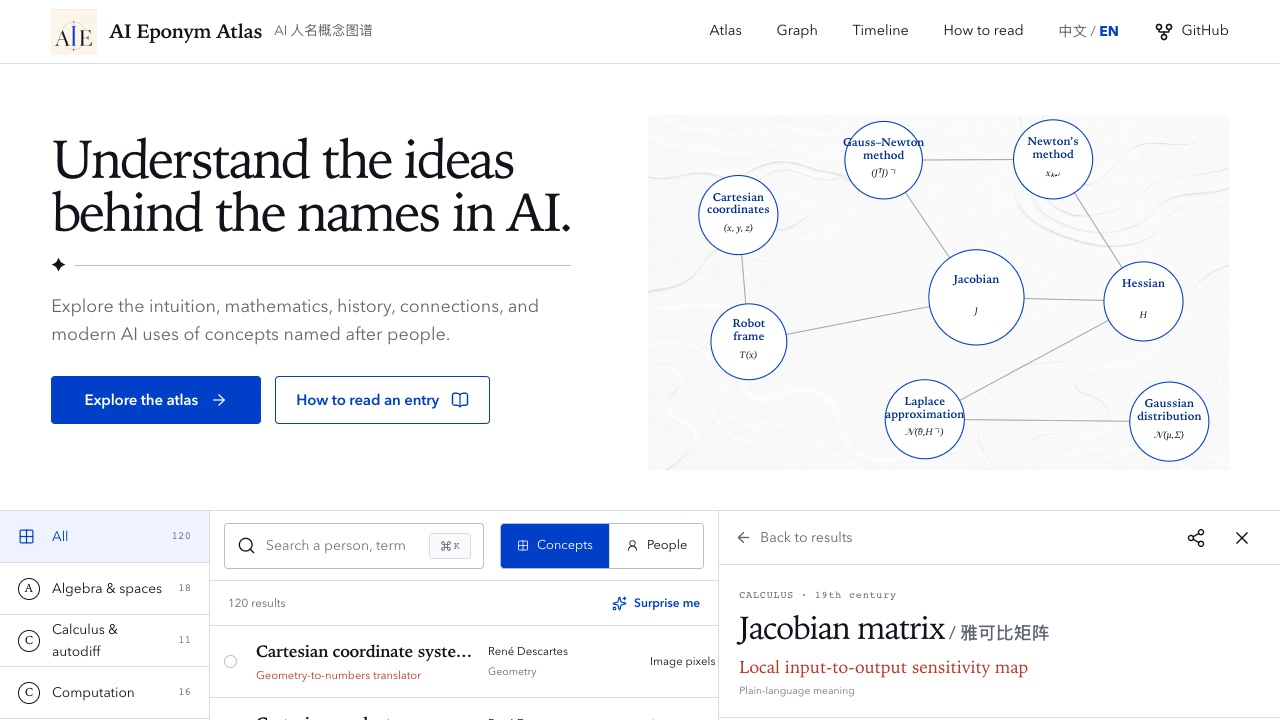
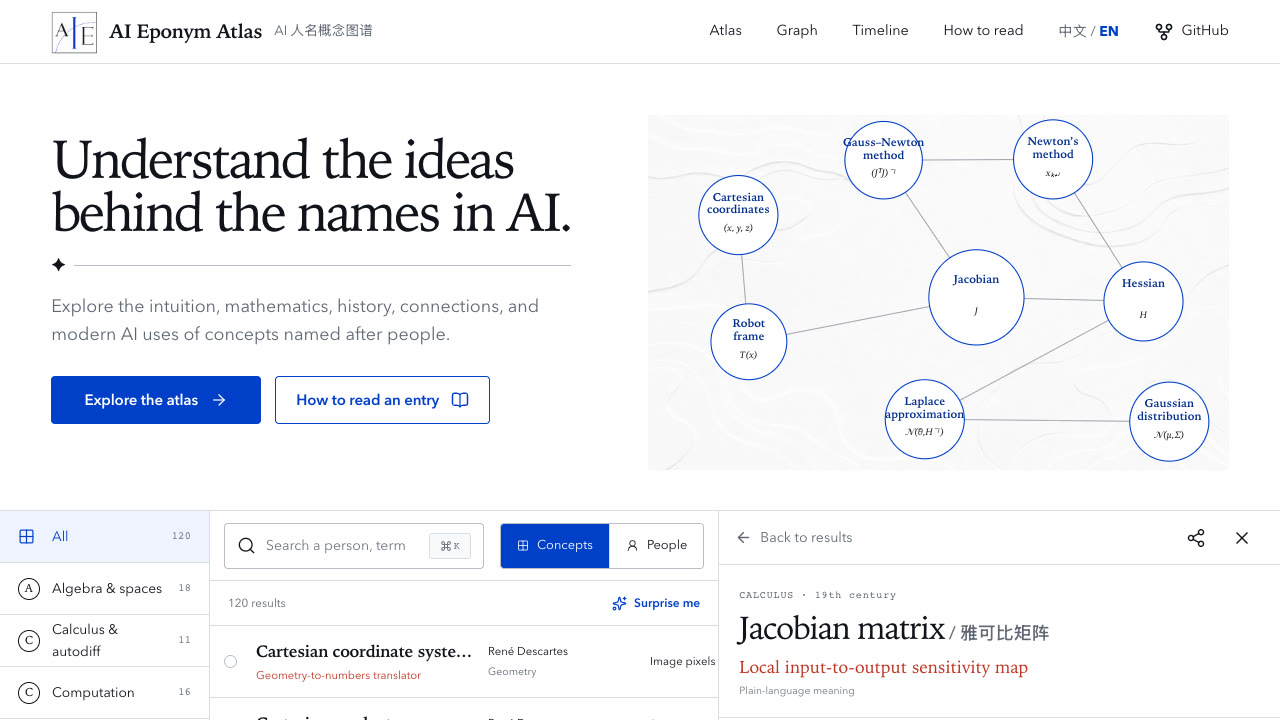
Adopt Option 1 Semantic Meridian identity

diff --git a/docs/GENERATED_ASSETS.md b/docs/GENERATED_ASSETS.md
@@ -88,32 +88,36 @@ be read as a relationship encoded by the atlas.
 | Field | Record |
 | --- | --- |
 | File | `public/og-card.jpg` |
+| Approved direction | Option 1 — **Semantic Meridian** |
+| Direction board | `docs/brand/semantic-meridian-option-1.jpg` |
 | Purpose | Open Graph and large Twitter/X link preview |
 | Generated | 2026-07-31 with ChatGPT built-in image generation |
-| Source output | 1731 × 909 PNG |
-| Production output | 1200 × 630 JPEG, approximately 182 KB |
+| Source output | 1717 × 916 PNG after applying the approved direction |
+| Production output | Center-cropped 1200 × 630 JPEG, approximately 121 KB |
 | Text verification | English title, Chinese title, tagline, and URL checked against repository copy |
 | Informational role | Decorative project identity only; it is not mathematical or historical evidence |
 
-The A–I–E mark at the upper left is also cropped into `brand-mark.png`,
+The approved mark uses black **A** and **E** letterforms, a tall cobalt **I**, an
+open diagonal meridian, and one vermilion diamond inside a fine square rule. It
+is cropped from the approved direction board into `brand-mark.png`,
 `icon-192.png`, `icon-512.png`, and `apple-touch-icon.png`. The blue **I** keeps
-all three initials legible at small sizes and avoids the previous A–E reading.
+all three initials legible at small sizes and avoids an A–E-only reading.
 
 ### Social-card production prompt
 
-> Use case: ads-marketing. Asset type: GitHub README cover and Open Graph social
-> card for an educational open-source project. Create a premium contemporary
-> editorial cover for AI Eponym Atlas, using a Swiss grid and scientific-atlas
-> visual language. Use warm ivory paper, subtle embossed topographic contours,
-> sparse mathematical arcs and nodes, near-black ink, vivid ultramarine, and one
-> tiny vermilion accent. Use an exact 1200:630 landscape composition with
-> generous margins. Place an original monogram at the upper left that clearly
-> includes **A**, **I**, and **E**, never only A and E. Render exactly once:
+> Use case: precise-object-edit. Image 1 is the current production social card
+> and establishes the exact copy and landscape framing. Image 2 is the approved
+> Option 1 “Semantic Meridian” identity board and is the authoritative visual and
+> logo reference. Rework Image 1 into a production-ready application of Option
+> 1: a boxed A–I–E monogram with a tall cobalt I, black A and E, one open diagonal
+> cobalt meridian, and one tiny vermilion diamond. Carry over the archival
+> index-tab paper layers, vertical cobalt meridian rule, target node, fine
+> cartographic lines, and quiet ivory paper topography. Keep it flat and
+> editorial, not a presentation board or physical mockup. Render exactly once:
 > “AI Eponym Atlas”, “AI 人名概念图谱”, “Understand the ideas behind
-> the names in AI.”, and “chaoyue0307.github.io/ai-eponym-atlas”. Keep the text
-> perfectly legible. No extra words, portraits, fake equations, generic AI
-> brains, circuit-board imagery, neon, mockup frame, 3D logo, watermark, or
-> decorative clutter.
+> the names in AI.”, and “chaoyue0307.github.io/ai-eponym-atlas”. Use no old
+> tagline, extra words, portraits, fake formulas, fake data, watermark, 3D logo,
+> circular orbit, Option 2 blue card, Option 3 dark split, or decorative clutter.
 
 ## Rejected UI concept studies
 
@@ -133,4 +137,4 @@ evaluated directly in React, CSS, semantic HTML, and SVG:
 - README images are captures of the working application.
 
 Generated imagery remains limited to non-informational editorial artwork: the
-paper underlay and the social cover documented above.
+paper underlay, approved identity board, and social cover documented above.

diff --git a/docs/DESIGN_SYSTEM.md b/docs/DESIGN_SYSTEM.md
@@ -56,6 +56,22 @@ style and direction; timeline events also use icons, shapes, and labels.
 - Primary touch targets are at least 44 px where the layout allows; no required
   interaction depends on hover.
 
+### Brand identity: Semantic Meridian
+
+Option 1, **Semantic Meridian**, is the canonical identity direction. Its mark
+combines black **A** and **E** letterforms with a tall cobalt **I**, crossed by
+one open diagonal meridian and punctuated by a single vermilion diamond. A fine
+square rule gives the mark a stable atlas frame.
+
+- Preserve all three letters at every size; never collapse the mark to A–E.
+- Keep the meridian open and diagonal; do not replace it with a circular orbit.
+- Use archival paper, cartographic rules, and index-tab layers only as quiet
+  supporting motifs.
+- Do not use the blue card construction from Option 2 or the dark split field
+  from Option 3.
+- The approved direction board is
+  [`semantic-meridian-option-1.jpg`](./brand/semantic-meridian-option-1.jpg).
+
 ## Semantic visual grammar
 
 | Entity or relation | Visual form |

diff --git a/CHANGELOG.md b/CHANGELOG.md
@@ -7,7 +7,8 @@ All notable editorial and product changes are recorded here. The catalog's
 
 - Reframed the project around the reader-facing line “Understand the ideas
   behind the names in AI,” simplified explanatory copy across every major view,
-  and refreshed the cover and icon suite with a legible A–I–E mark.
+  and locked Option 1, **Semantic Meridian**, as the canonical cover and A–I–E
+  icon system.
 - Expanded the atlas from 75 to 120 concepts and from 57 to 117 people.
 - Raised the evidence floor to at least two direct sources per concept, for 247
   source links in the released catalog.
